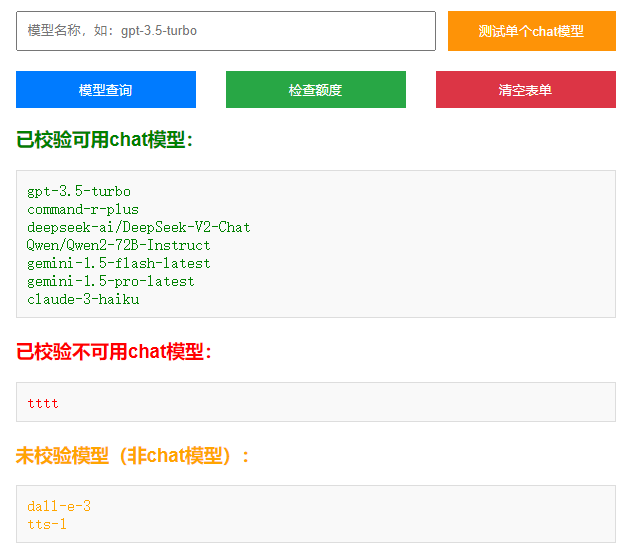
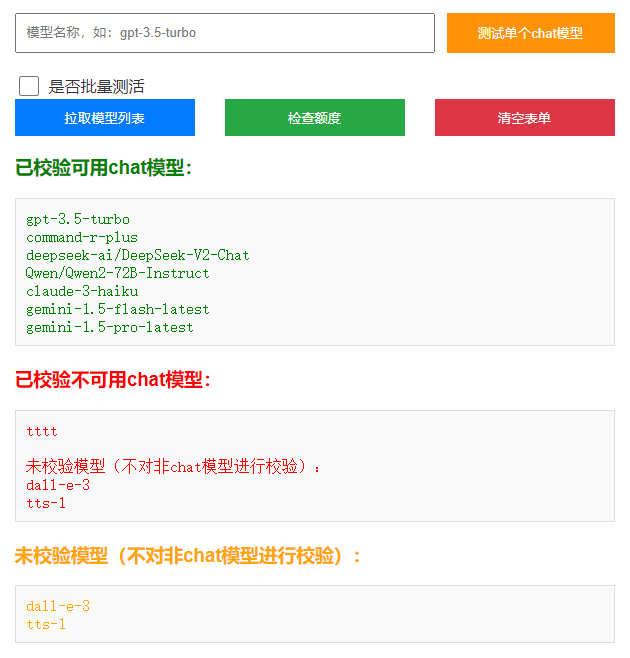
增加测活开关

diff --git a/templates/index.html b/templates/index.html
@@ -194,6 +194,36 @@
             font-size: 16px;
             color: black;
         }
+        /* 样式容器 */
+        .model-health-check {
+            display: flex;
+            align-items: center;
+            margin-top: 10px;
+        }
+
+        /* 样式复选框 */
+        .model-health-check input[type="checkbox"] {
+            width: 20px;
+            height: 20px;
+            margin-right: 10px;
+            accent-color: #4CAF50; /* 复选框选中的颜色 */
+        }
+
+        /* 样式标签 */
+        .model-health-check label {
+            font-size: 16px;
+            color: #333;
+            cursor: pointer;
+        }
+
+        /* 鼠标悬停时的样式 */
+        .model-health-check input[type="checkbox"]:hover {
+            box-shadow: 0 0 5px rgba(0, 0, 0, 0.2);
+        }
+
+        .model-health-check label:hover {
+            color: #4CAF50;
+        }
     </style>
     <script>
         function showAlert(message) {
@@ -225,6 +255,9 @@
                 showAlert("请填写懒人专用文本框或者接口地址和密钥");
                 return false;
             }
+            // 获取复选框状态
+            var modelHealthCheck = document.getElementById('model_health_check').checked;
+
             // 显示加载指示器
             const loading = document.getElementById('loading');
             loading.classList.remove('hide');
@@ -236,6 +269,12 @@
             hiddenActionInput.name = 'action';
             hiddenActionInput.value = action;
             form.appendChild(hiddenActionInput);
+
+            var hiddenHealthCheckInput = document.createElement('input');
+            hiddenHealthCheckInput.type = 'hidden';
+            hiddenHealthCheckInput.name = 'model_health_check';
+            hiddenHealthCheckInput.value = modelHealthCheck;
+            form.appendChild(hiddenHealthCheckInput);
 
             form.submit();
         }
@@ -333,8 +372,13 @@
                 <input type="text" id="model_name" name="model_name" placeholder="模型名称，如：gpt-3.5-turbo">
                 <input type="button" name="test_model" value="测试单个chat模型" onclick="testModel()">
             </div>
+            <!-- Add the checkbox for Model Health Check -->
+            <div class="model-health-check">
+                <input type="checkbox" id="model_health_check" name="model_health_check">
+                <label for="model_health_check">是否批量测活</label>
+            </div>
             <div class="submit-container">
-                <input type="submit" name="action" value="模型查询" class="submit-query">
+                <input type="submit" name="action" value="拉取模型列表" class="submit-query">
                 <input type="submit" name="action" value="检查额度" class="check-quota">
                 <input type="submit" name="clear" value="清空表单" class="clear-form">
             </div>
@@ -357,15 +401,16 @@
             {% endif %}
 
             <!-- 显示未校验模型（非chat模型）的部分 -->
-            {% if '未校验模型（非chat模型）：' in response %}
+            {% if '未校验模型（不对非chat模型进行校验）：' in response %}
                 <div class="unchecked-models">
-                    <h3>未校验模型（非chat模型）：</h3>
-                    <pre>{{ response.split('未校验模型（非chat模型）：')[1].strip() }}</pre>
+                    <h3>未校验模型（不对非chat模型进行校验）：</h3>
+                    <pre>{{ response.split('未校验模型（不对非chat模型进行校验）：')[1].strip() }}</pre>
                 </div>
             {% endif %}
 
             <!-- 如果没有匹配任何部分，显示整个原有内容 -->
-            {% if not ('已校验可用chat模型：' in response or '已校验不可用chat模型：' in response or '未校验模型（非chat模型）：' in response) %}
+            {% if not ('已校验可用chat模型：' in response or '已校验不可用chat模型：' in response or '未校验模型（不对非chat模型进行校验）：' in response) %}
+                <h3>支持的模型列表：</h3>
                 <div class="default-response">
                     <pre>{{ response }}</pre>
                 </div>

diff --git a/app.py b/app.py
@@ -16,12 +16,13 @@ def submit():
     api_url_lazy, api_key_lazy = None,None
     api_info = request.form.get('api_info')
     api_key_head = request.form.get('api_key_head')
+    model_health_check = request.form.get('model_health_check') == 'on'
+
     if api_info:
         # 使用正则表达式提取接口地址和API密钥
         url_pattern = r'(https?://[^\s，。、！,；;\n]+)'
         api_key_head = api_key_head or "sk-"
         key_pattern = fr'({re.escape(api_key_head)}[a-zA-Z0-9_]+)'
-        # print(key_pattern)
 
         api_url_match = re.search(url_pattern, api_info)
         api_key_match = re.search(key_pattern, api_info)
@@ -48,25 +49,27 @@ def submit():
         'Authorization': f'Bearer {api_key}'
         }
     
-    if action == '模型查询':
+    if action == '拉取模型列表':
         model_url = f"{base_url}/v1/models"
         response = requests.get(model_url, headers=headers)
         try:
             response_json = response.json()
-            # support_models = "\n".join([item['id'] for item in response_json['data']])
-            available_chat_models,unavailable_chat_models,not_chat_models = [],[],[]
-            not_chat_pattern = r'^(dall-e|mj|midjourney|stable-diffusion|swap_face|tts-|whisper-|text-|emb-)'
-            for item in response_json['data']:
-                model_name = item['id']
-                if re.match(not_chat_pattern, model_name):
-                    not_chat_models.append(model_name)
-                else:
-                    response = test_one_model(api_url, api_key, model_name)
-                    if response.status_code == 200 or response.status_code == 201:
-                        available_chat_models.append(model_name)
+            if not model_health_check:
+                support_models = "\n".join([item['id'] for item in response_json['data']])
+            else:
+                available_chat_models,unavailable_chat_models,not_chat_models = [],[],[]
+                not_chat_pattern = r'^(dall-e|mj|midjourney|stable-diffusion|playground|flux|swap_face|tts-|whisper-|text-|emb-)'
+                for item in response_json['data']:
+                    model_name = item['id']
+                    if re.match(not_chat_pattern, model_name) or ("flux" in model_name):
+                        not_chat_models.append(model_name)
                     else:
-                        unavailable_chat_models.append(model_name)
-            support_models = "已校验可用chat模型：\n" + "\n".join(available_chat_models) + "\n\n" + "已校验不可用chat模型：\n" + "\n".join(unavailable_chat_models) + "\n\n" + "未校验模型（非chat模型）：\n" + "\n".join(not_chat_models)
+                        response = test_one_model(api_url, api_key, model_name)
+                        if response.status_code == 200 or response.status_code == 201:
+                            available_chat_models.append(model_name)
+                        else:
+                            unavailable_chat_models.append(model_name)
+                support_models = "已校验可用chat模型：\n" + "\n".join(available_chat_models) + "\n\n" + "已校验不可用chat模型：\n" + "\n".join(unavailable_chat_models) + "\n\n" + "未校验模型（不对非chat模型进行校验）：\n" + "\n".join(not_chat_models)
         except:
             support_models = response.text
 
